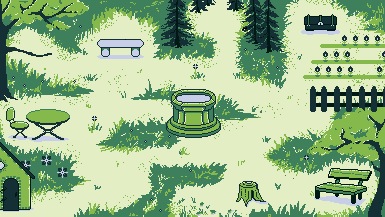
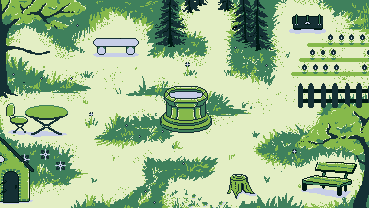
cambio canvas

diff --git a/src/index.css b/src/index.css
@@ -124,8 +124,8 @@ canvas {
 /* MARK: GAME CONTAINER*/
 .game-container {
     position: relative;
-    aspect-ratio: 385 / 217;
-    width: min(96%, calc(96dvh * (385 / 217)));
+    aspect-ratio: 384 / 208;
+    width: min(96%, calc(96dvh * (384 / 208)));
     max-width: 1200px;
     max-height: 96dvh;
     background-color: var(--color-fondo);